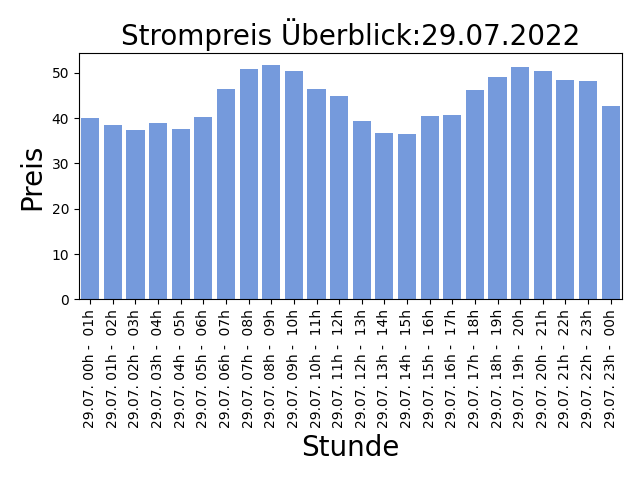
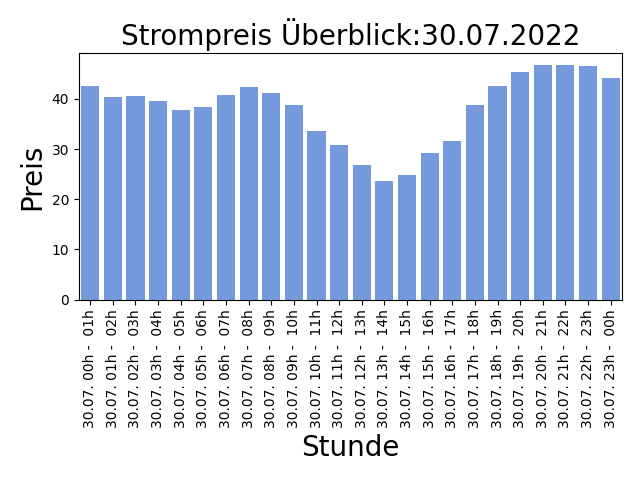
AUTOMATIC UPDATE PRICE LIST: 2022-07-29-14:30:05

diff --git a/README.md b/README.md
@@ -1,5 +1,5 @@
 
-## Strompreise für den 29.07.2022
+## Strompreise für den 30.07.2022
 
 Niedrige Preise deuten auf viel Sonnen und Windenergieerzeugung hin, ein hoher Anteil an erneuerbaren Energien bedeuted weniger CO2 Verbrauch!
 
@@ -7,31 +7,31 @@ Niedrige Preise deuten auf viel Sonnen und Windenergieerzeugung hin, ein hoher A
 
 | Stunde | Preis in Cent/kWh |
 |---|---|
-| 29.07. 00h -  01h | 40.001999999999995 | 
-| 29.07. 01h -  02h | 38.410000000000004 | 
-| 29.07. 02h -  03h | 37.381 | 
-| 29.07. 03h -  04h | 38.851 | 
-| 29.07. 04h -  05h | 37.483 | 
-| 29.07. 05h -  06h | 40.261 | 
-| 29.07. 06h -  07h | 46.316 | 
-| 29.07. 07h -  08h | 50.814 | 
-| 29.07. 08h -  09h | 51.717 | 
-| 29.07. 09h -  10h | 50.393 | 
-| 29.07. 10h -  11h | 46.344 | 
-| 29.07. 11h -  12h | 44.893 | 
-| 29.07. 12h -  13h | 39.444 | 
-| 29.07. 13h -  14h | 36.644999999999996 | 
-| **29.07. 14h -  15h** | **36.504000000000005** | 
-| 29.07. 15h -  16h | 40.498000000000005 | 
-| 29.07. 16h -  17h | 40.708 | 
-| 29.07. 17h -  18h | 46.152 | 
-| 29.07. 18h -  19h | 48.987 | 
-| 29.07. 19h -  20h | 51.251 | 
-| 29.07. 20h -  21h | 50.433 | 
-| 29.07. 21h -  22h | 48.494 | 
-| 29.07. 22h -  23h | 48.205 | 
-| 29.07. 23h -  00h | 42.574 | 
+| 30.07. 00h -  01h | 42.5 | 
+| 30.07. 01h -  02h | 40.43 | 
+| 30.07. 02h -  03h | 40.5 | 
+| 30.07. 03h -  04h | 39.585 | 
+| 30.07. 04h -  05h | 37.706 | 
+| 30.07. 05h -  06h | 38.398 | 
+| 30.07. 06h -  07h | 40.678 | 
+| 30.07. 07h -  08h | 42.302 | 
+| 30.07. 08h -  09h | 41.272000000000006 | 
+| 30.07. 09h -  10h | 38.864999999999995 | 
+| 30.07. 10h -  11h | 33.548 | 
+| 30.07. 11h -  12h | 30.854000000000003 | 
+| 30.07. 12h -  13h | 26.845999999999997 | 
+| **30.07. 13h -  14h** | **23.678** | 
+| 30.07. 14h -  15h | 24.778 | 
+| 30.07. 15h -  16h | 29.173000000000002 | 
+| 30.07. 16h -  17h | 31.643 | 
+| 30.07. 17h -  18h | 38.844 | 
+| 30.07. 18h -  19h | 42.586 | 
+| 30.07. 19h -  20h | 45.415 | 
+| 30.07. 20h -  21h | 46.771 | 
+| 30.07. 21h -  22h | 46.669 | 
+| 30.07. 22h -  23h | 46.624 | 
+| 30.07. 23h -  00h | 44.193 | 
 
 Preise der EPEX Spot ® Strombörse (neue Preise werden täglich um 14:00 veröffentlicht für den kompletten nächsten Tag).
 
-letzte Aktualisierung:28.07.2022 14:30
+letzte Aktualisierung:29.07.2022 14:30
